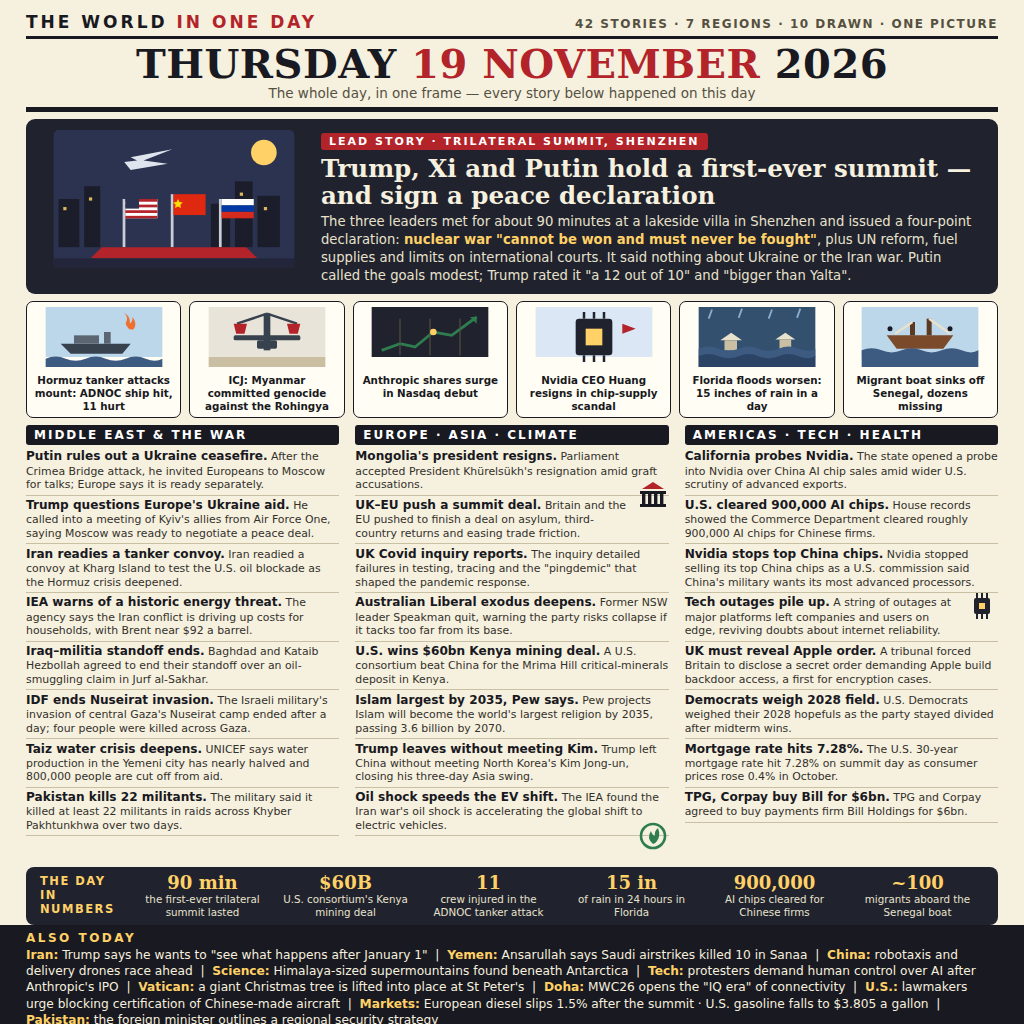
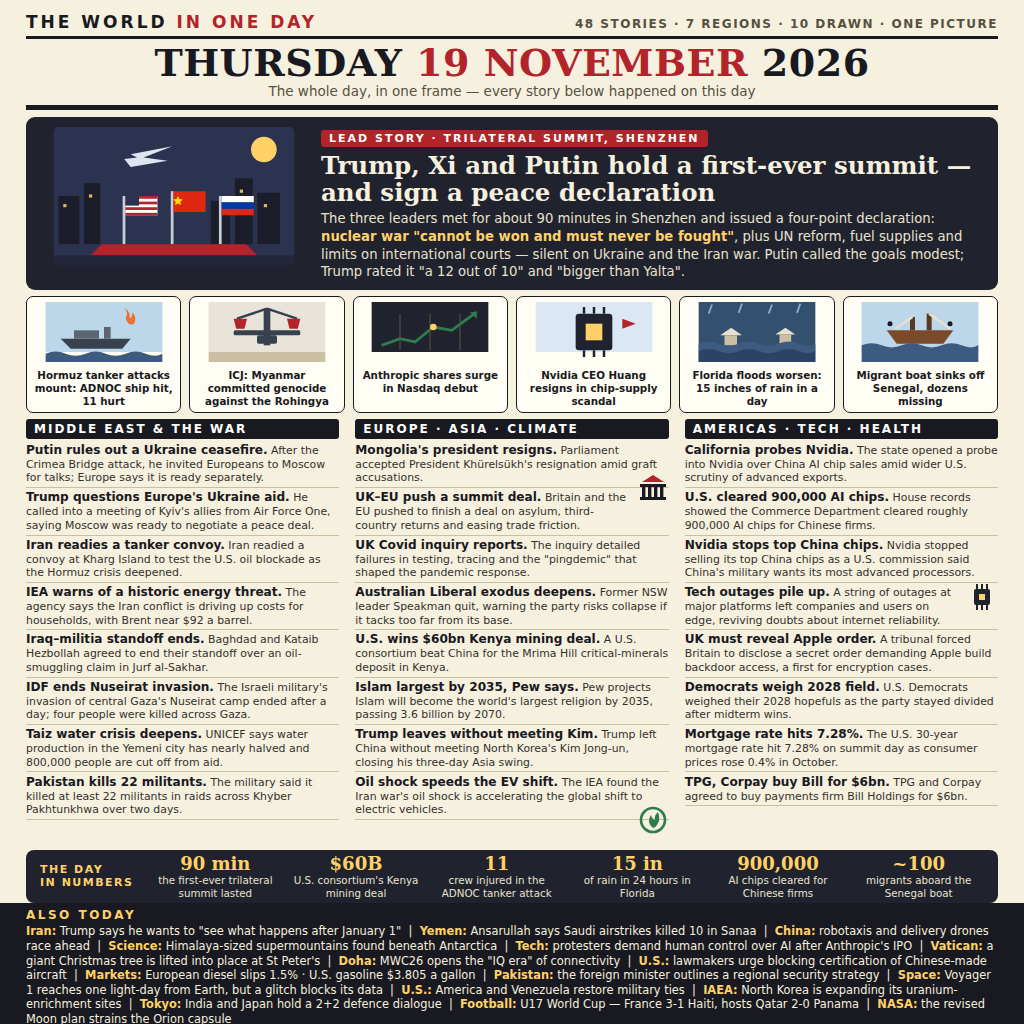
v2: 48 stories — six more in the ticker (Voyager, Venezuela, IAEA, India-Japan, U17 World Cup, NASA)

diff --git a/README.md b/README.md
@@ -1,8 +1,8 @@
 # The World in One Day — 19 November 2026
 
-One image that sums up a whole day of world news, drawn as a newspaper front page: 42 stories, 7 regions, 10 drawn pictures.
+One image that sums up a whole day of world news, drawn as a newspaper front page: 48 stories, 7 regions, 10 drawn pictures.
 
-The lead story is the first-ever trilateral summit of Presidents Trump, Xi and Putin in Shenzhen, which produced a four-point peace declaration. Around it: the Hormuz tanker attacks, the ICJ's genocide ruling against Myanmar, Anthropic's Nasdaq debut, Nvidia's CEO resigning, Florida's floods and a migrant boat sinking off Senegal — plus 24 briefs and a ticker of the day's other news.
+The lead story is the first-ever trilateral summit of Presidents Trump, Xi and Putin in Shenzhen, which produced a four-point peace declaration. Around it: the Hormuz tanker attacks, the ICJ's genocide ruling against Myanmar, Anthropic's Nasdaq debut, Nvidia's CEO resigning, Florida's floods and a migrant boat sinking off Senegal — plus 24 briefs and a ticker of 17 more stories.
 
 Built by an AI agent for make.fun's "Sum up 19 November's world news in one image" bounty, $250 USDC.
 
